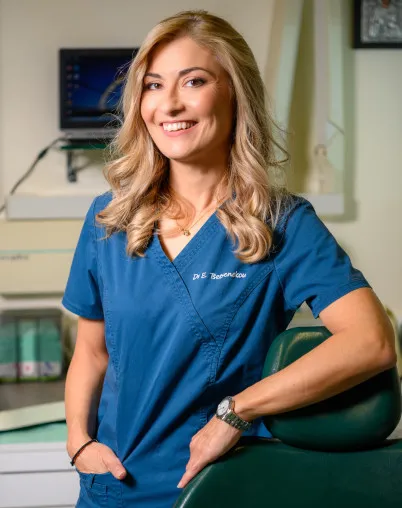
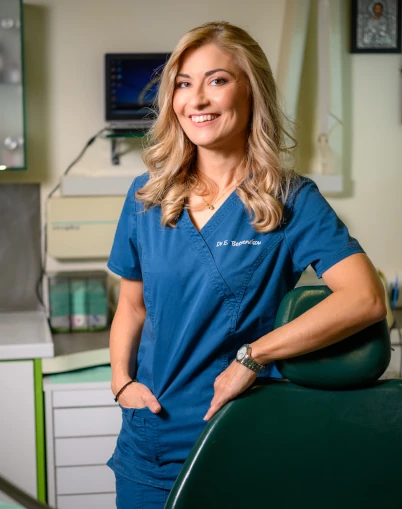
team additions

diff --git a/src/components/OurTeam/Iliopoulou.vue b/src/components/OurTeam/Iliopoulou.vue
@@ -1,0 +1,78 @@
+<template>
+    <div class="dentist-details-area ptb-100">
+        <div class="container">
+            <div class="row align-items-center">
+                <div class="col-lg-5 col-md-6">
+                    <div class="dentist-details-image">
+                        <img src="../../assets/images/OurTeam/iliopoulou/iliopoulou_allteam.webp" alt="image">
+                    </div>
+                </div>
+
+                <div class="col-lg-7 col-md-6">
+                    <div class="dentist-details-content">
+                        <h3>
+                            <router-link to="/iliopoulou">
+                                {{ $t('our_team_iliopoulou') }}
+                            </router-link>
+                        </h3>
+                        <span>{{ $t('all_staff_iliopoulou_spec') }}</span>
+
+                        <div class="share-link">
+                            <a href="https://www.facebook.com/" target="_blank"><i class='bx bxl-facebook'></i></a>
+                            <a href="https://twitter.com/?lang=en" target="_blank"><i class='bx bxl-twitter'></i></a>
+                            <a href="https://www.linkedin.com/in//" target="_blank"><i class='bx bxl-linkedin'></i></a>
+                            <a href="https://www.instagram.com/" target="_blank"><i class='bx bxl-instagram'></i></a>
+                        </div>
+
+                        <div class="content-overview">
+                            <div class="content-overview">
+                            <p class="glide-in"><b>{{ $t('general_birthday_title') }}</b> {{ $t('iliopoulou_birthday') }}</p>
+
+                            <p class="glide-in"><b>{{ $t('general_specialized_title') }}</b> {{ $t('iliopoulou_specialized') }}</p>
+
+                            <p class="glide-in"><b>{{ $t('general_education_title') }}</b> {{ $t('iliopoulou_education') }}</p>
+                            
+                            <p class="glide-in"><b>{{ $t('general_member_title') }}</b> {{ $t('iliopoulou_member') }}</p>
+                        
+                        </div></div>
+                    </div>
+                </div>
+                <div class="dentist-details-overview-content">
+                    <p class="glide-in">{{ $t('iliopoulou_summary') }}</p>
+                </div>
+            </div>
+        </div>
+    </div>
+</template>
+
+<script>
+export default {
+    name: 'iliopoulou',
+    mounted() {
+        window.addEventListener('scroll', this.handleScroll);
+        this.handleScroll(); // Call handleScroll once on mount to initialize elements in viewport
+    },
+    methods: {
+        handleScroll() {
+            let elements = document.querySelectorAll('.glide-in');
+            elements.forEach(element => {
+                if (this.isElementInViewport(element)) {
+                    element.classList.add('glide-in-visible');
+                }
+            });
+        },
+        isElementInViewport(el) {
+            var rect = el.getBoundingClientRect();
+            return (
+                rect.top >= 0 &&
+                rect.bottom <= (window.innerHeight || document.documentElement.clientHeight)
+            );
+        }
+    },
+    destroyed() {
+        window.removeEventListener('scroll', this.handleScroll);
+    }
+}
+</script>
+
+

diff --git a/src/components/OurTeam/Vosiki.vue b/src/components/OurTeam/Vosiki.vue
@@ -1,0 +1,78 @@
+<template>
+    <div class="dentist-details-area ptb-100">
+        <div class="container">
+            <div class="row align-items-center">
+                <div class="col-lg-5 col-md-6">
+                    <div class="dentist-details-image">
+                        <img src="../../assets/images/OurTeam/voziki/voziki_team.webp" alt="image">
+                    </div>
+                </div>
+
+                <div class="col-lg-7 col-md-6">
+                    <div class="dentist-details-content">
+                        <h3>
+                            <router-link to="/vosiki">
+                                {{ $t('our_team_vosiki') }}
+                            </router-link>
+                        </h3>
+                        <span>{{ $t('all_staff_vosiki_spec') }}</span>
+
+                        <div class="share-link">
+                            <a href="https://www.facebook.com/" target="_blank"><i class='bx bxl-facebook'></i></a>
+                            <a href="https://twitter.com/?lang=en" target="_blank"><i class='bx bxl-twitter'></i></a>
+                            <a href="https://www.linkedin.com/in//" target="_blank"><i class='bx bxl-linkedin'></i></a>
+                            <a href="https://www.instagram.com/" target="_blank"><i class='bx bxl-instagram'></i></a>
+                        </div>
+
+                        <div class="content-overview">
+                            <div class="content-overview">
+                            <p class="glide-in"><b>{{ $t('general_birthday_title') }}</b> {{ $t('vosiki_birthday') }}</p>
+
+                            <p class="glide-in"><b>{{ $t('general_specialized_title') }}</b> {{ $t('vosiki_specialized') }}</p>
+
+                            <p class="glide-in"><b>{{ $t('general_education_title') }}</b> {{ $t('vosiki_education') }}</p>
+                            
+                            <p class="glide-in"><b>{{ $t('general_member_title') }}</b> {{ $t('vosiki_member') }}</p>
+                        
+                        </div></div>
+                    </div>
+                </div>
+                <div class="dentist-details-overview-content">
+                    <p class="glide-in">{{ $t('vosiki_summary') }}</p>
+                </div>
+            </div>
+        </div>
+    </div>
+</template>
+
+<script>
+export default {
+    name: 'vosiki',
+    mounted() {
+        window.addEventListener('scroll', this.handleScroll);
+        this.handleScroll(); // Call handleScroll once on mount to initialize elements in viewport
+    },
+    methods: {
+        handleScroll() {
+            let elements = document.querySelectorAll('.glide-in');
+            elements.forEach(element => {
+                if (this.isElementInViewport(element)) {
+                    element.classList.add('glide-in-visible');
+                }
+            });
+        },
+        isElementInViewport(el) {
+            var rect = el.getBoundingClientRect();
+            return (
+                rect.top >= 0 &&
+                rect.bottom <= (window.innerHeight || document.documentElement.clientHeight)
+            );
+        }
+    },
+    destroyed() {
+        window.removeEventListener('scroll', this.handleScroll);
+    }
+}
+</script>
+
+

diff --git a/src/components/OurTeam/AllDoctors.vue b/src/components/OurTeam/AllDoctors.vue
@@ -166,10 +166,10 @@ export default {
             ],
             officeStaff: [
                 {
-                    name: this.$t('staff_name1'),
-                    profileLink: '/staff1',
-                    image: require('../../assets/images/OurTeam/labropoulou/labropoulou_allteam.webp'),
-                    specialization: this.$t('staff_spec1'),
+                    name: this.$t('our_team_iliopoulou'),
+                    profileLink: '/iliopoulou',
+                    image: require('../../assets/images/OurTeam/iliopoulou/iliopoulou_allteam.webp'),
+                    specialization: this.$t('all_staff_iliopoulou_spec'),
                     socialLinks: [
                         { platform: 'facebook', link: 'https://www.facebook.com/', icon: 'bx bxl-facebook' },
                         { platform: 'twitter', link: 'https://twitter.com/?lang=en', icon: 'bx bxl-twitter' },
@@ -178,10 +178,10 @@ export default {
                     ],
                 },
                 {
-                    name: this.$t('staff_name2'),
-                    profileLink: '/staff2',
-                    image: require('../../assets/images/OurTeam/labropoulou/labropoulou_allteam.webp'),
-                    specialization: this.$t('staff_spec2'),
+                    name: this.$t('our_team_vosiki'),
+                    profileLink: '/vosiki',
+                    image: require('../../assets/images/OurTeam/voziki/voziki_team.webp'),
+                    specialization: this.$t('all_staff_vosiki_spec'),
                     socialLinks: [
                         { platform: 'facebook', link: 'https://www.facebook.com/', icon: 'bx bxl-facebook' },
                         { platform: 'twitter', link: 'https://twitter.com/?lang=en', icon: 'bx bxl-twitter' },

diff --git a/src/router/index.js b/src/router/index.js
@@ -8,6 +8,9 @@ import DentistPage from "../components/Pages/DentistPage.vue"
 import Etsetsenekou from "../components/Pages/Etsetsenekou.vue"
 import KLabropoulou from "../components/Pages/KLabropoulou.vue"
 import GDimakis from "../components/Pages/GDimakis.vue"
+import Gvosiki from "../components/Pages/Gvosiki.vue"
+import Niliopoulou from "../components/Pages/Niliopoulou.vue"
+
 
 import ServicesPage  from "../components/Pages/ServicesPage.vue"
 import AllXDetails from "../components/services-details/AllXDetails.vue"
@@ -88,8 +91,9 @@ const routes = [
   { path: "/our-team", name:"DentistPage",  component:DentistPage},
   { path: "/tsetsenekou", name:"Etsetsenekou",  component:Etsetsenekou},
   { path: "/labropoulou", name:"KLabropoulou",  component:KLabropoulou},
-  
   { path: "/dimakis", name:"GDimakis",  component:GDimakis},
+  { path: "/iliopoulou", name:"Niliopoulou",  component:Niliopoulou},
+  { path: "/vosiki", name:"Gvosiki",  component:Gvosiki},
   
 
   { path: "/services",name:"ServicesPage", component:ServicesPage},

diff --git a/src/components/Pages/Niliopoulou.vue b/src/components/Pages/Niliopoulou.vue
@@ -1,0 +1,18 @@
+<template>
+    <div>
+        <PageBanner :pageTitle="$t('our_team_iliopoulou')" />
+        <Iliopoulou />
+    </div>
+</template>
+
+<script>
+import PageBanner from '../Common/PageBanner'
+import Iliopoulou from '../OurTeam/Iliopoulou.vue';
+
+export default {
+    components: {
+        PageBanner,
+        Iliopoulou,
+    }
+}
+</script>

diff --git a/src/components/Pages/Gvosiki.vue b/src/components/Pages/Gvosiki.vue
@@ -1,0 +1,18 @@
+<template>
+    <div>
+        <PageBanner :pageTitle="$t('our_team_vosiki')" />
+        <Vosiki />
+    </div>
+</template>
+
+<script>
+import PageBanner from '../Common/PageBanner'
+import Vosiki from '../OurTeam/Vosiki.vue';
+
+export default {
+    components: {
+        PageBanner,
+        Vosiki,
+    }
+}
+</script>
